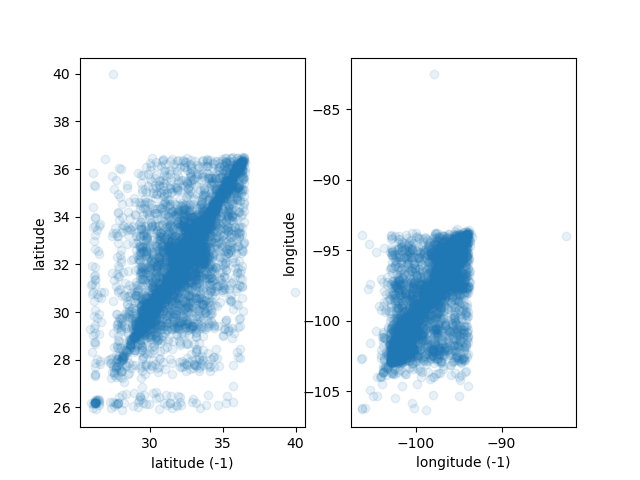
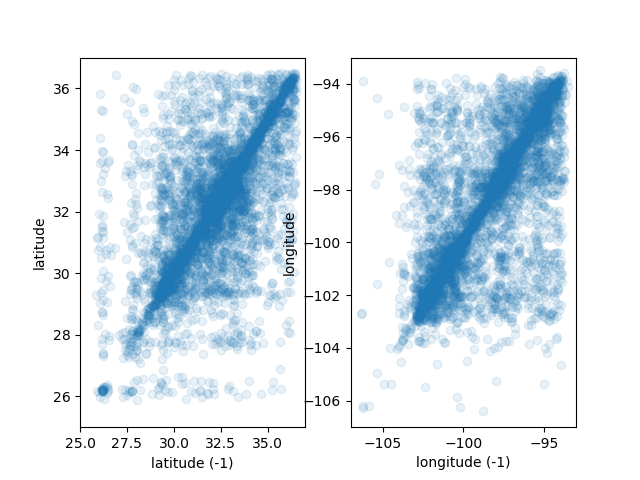
made timeseries plot nicer

diff --git a/scripts/time-series.py b/scripts/time-series.py
@@ -1,8 +1,7 @@
 import pandas as pd
-import os
 import matplotlib.pyplot as plt
 
-input_file = "../Data/final/final_data1.csv"
+input_file = r"Data\final\final_data1.csv"
 df = pd.read_csv(input_file)
 
 lat_list = []
@@ -21,14 +20,15 @@ fig, (ax1, ax2) = plt.subplots(1, 2)
 ax1.scatter(lat_min_1, lat_list, alpha = 0.1)
 ax1.set_xlabel("latitude (-1)")
 ax1.set_ylabel("latitude")
+ax1.set_ylim(25, 37)
+ax1.set_xlim(25, 37)
 
 ax2.scatter(lon_min_1, lon_list, alpha = 0.1)
 ax2.set_xlabel("longitude (-1)")
 ax2.set_ylabel("longitude")
+ax2.set_ylim(-107, -93)
+ax2.set_xlim(-107, -93)
 
-output_dir = '../plots'
-os.makedirs(output_dir, exist_ok=True)
-plt.savefig(os.path.join(output_dir, 'tornado_time_series.png'))
-print(f"Plot saved to {os.path.join(output_dir, 'tornado_time_series.png')}")
 
+plt.savefig(r"plots\tornado_time_series.png")
 plt.show()
